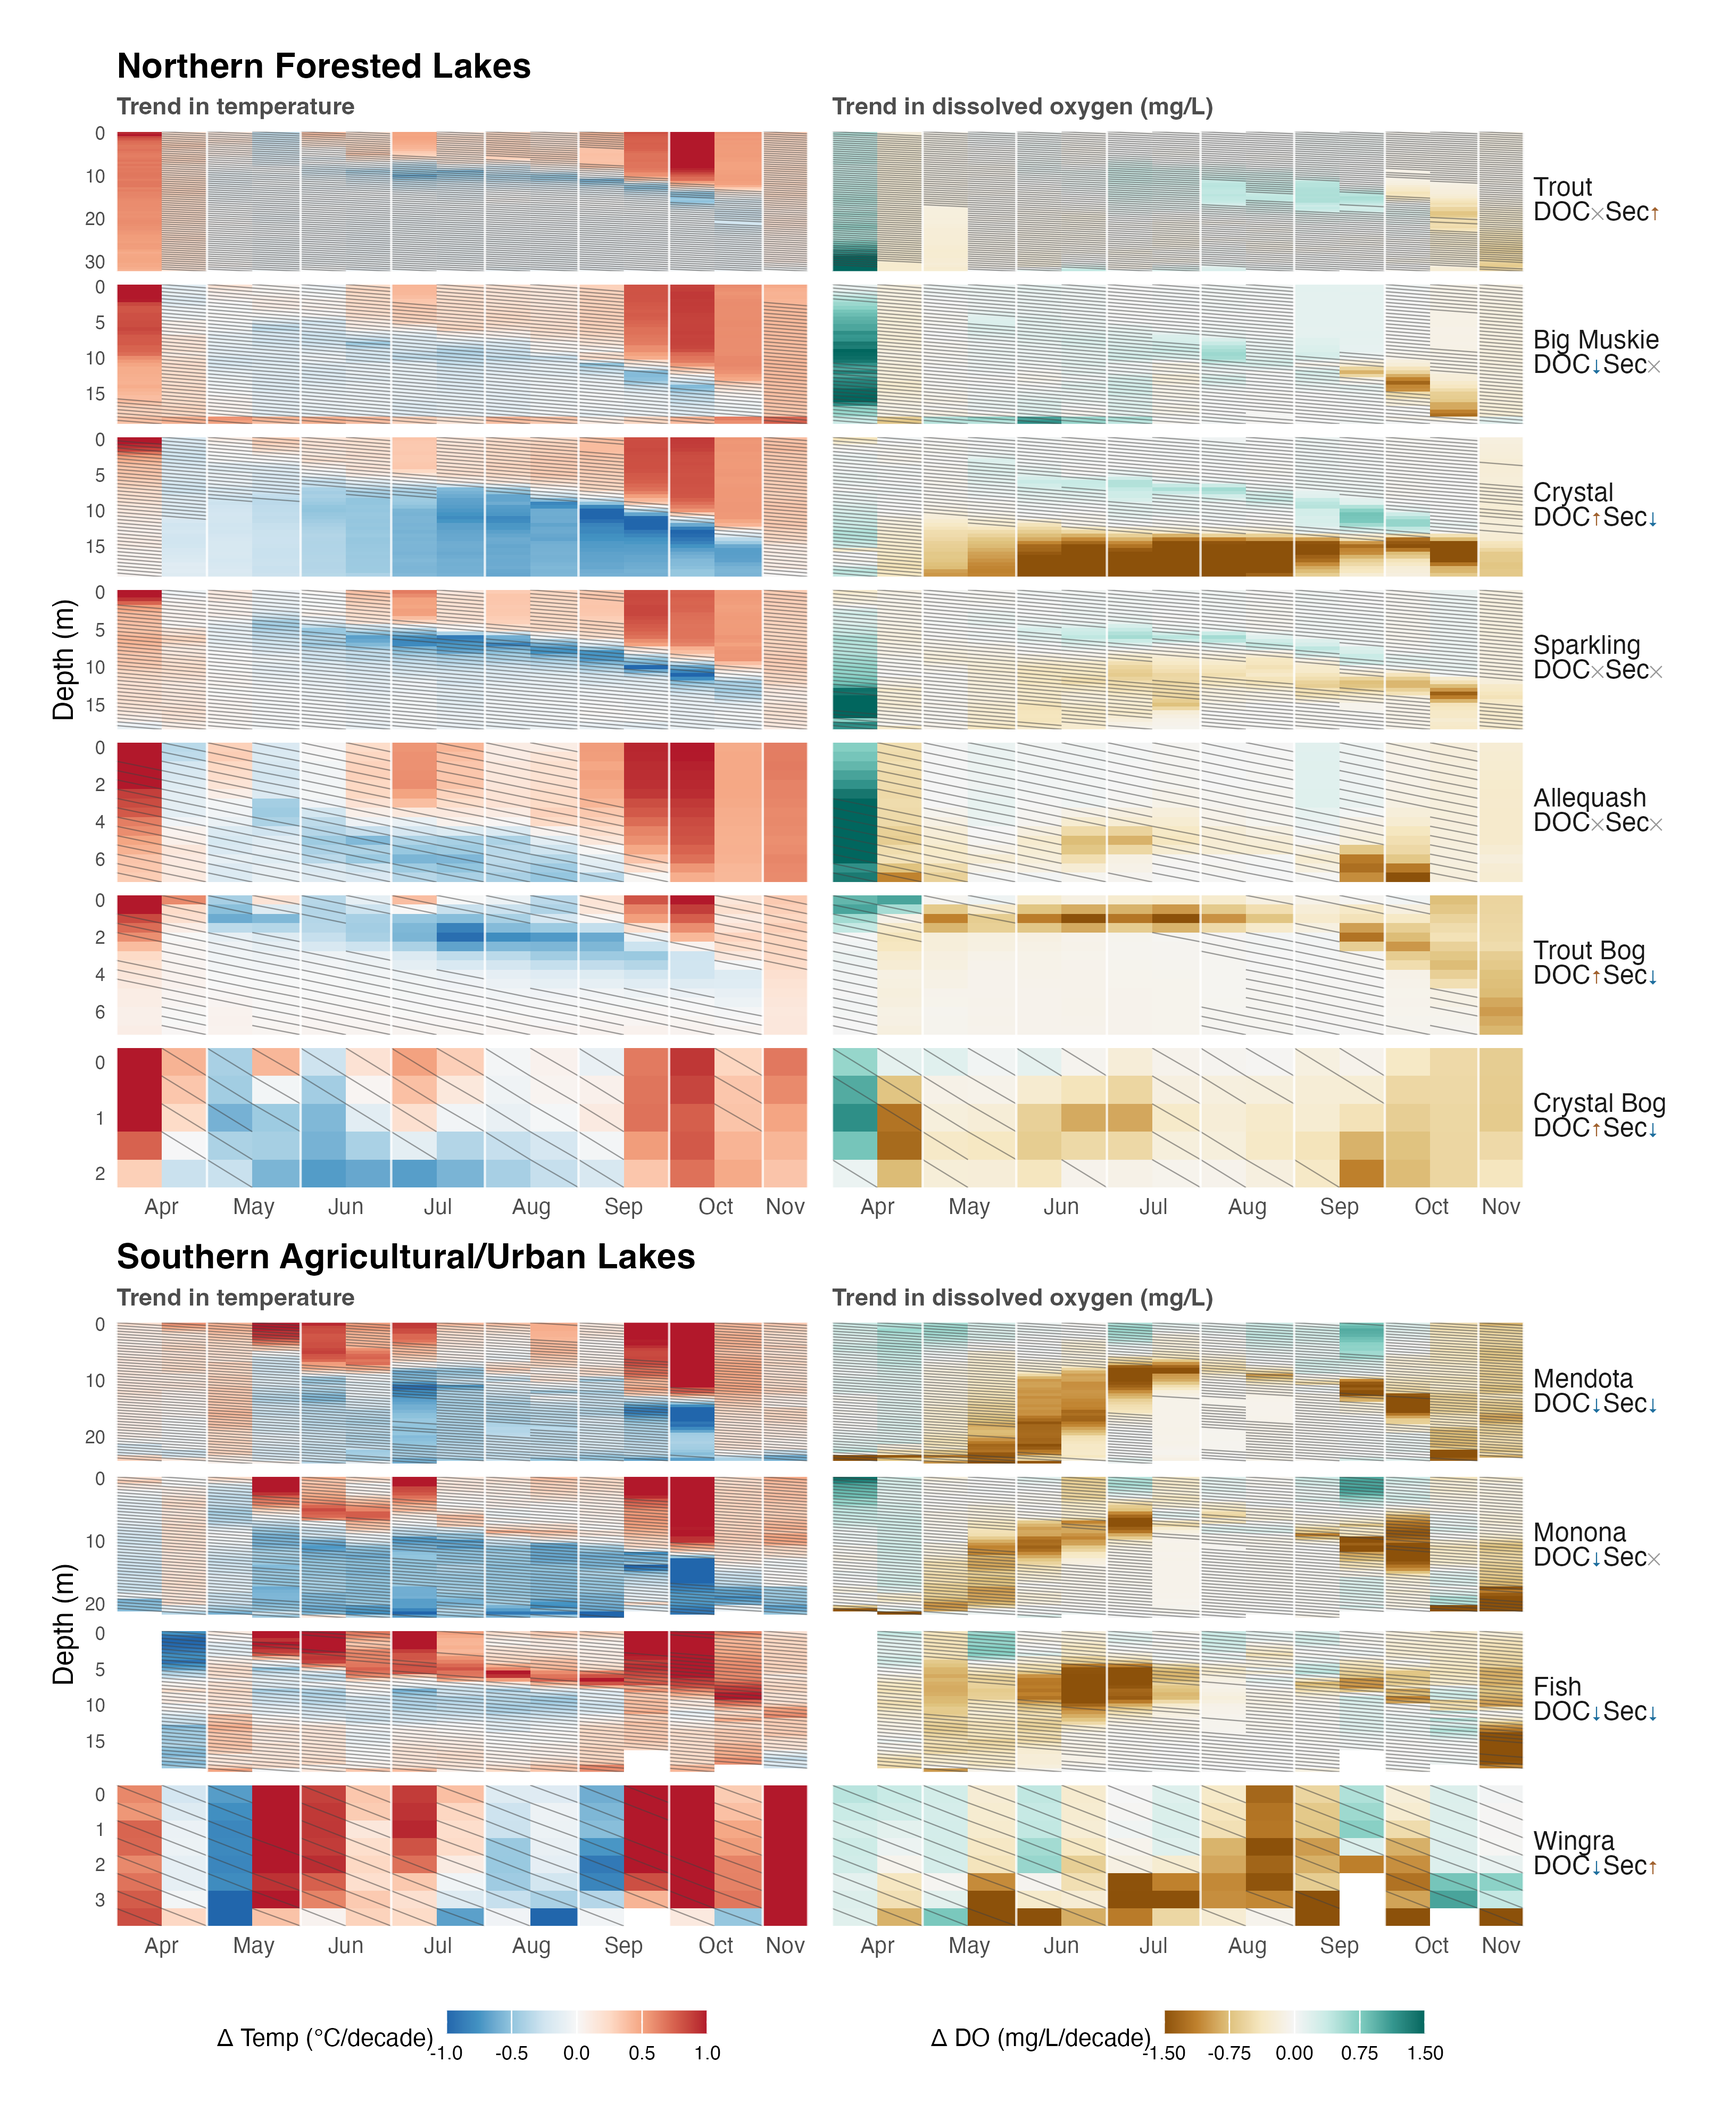
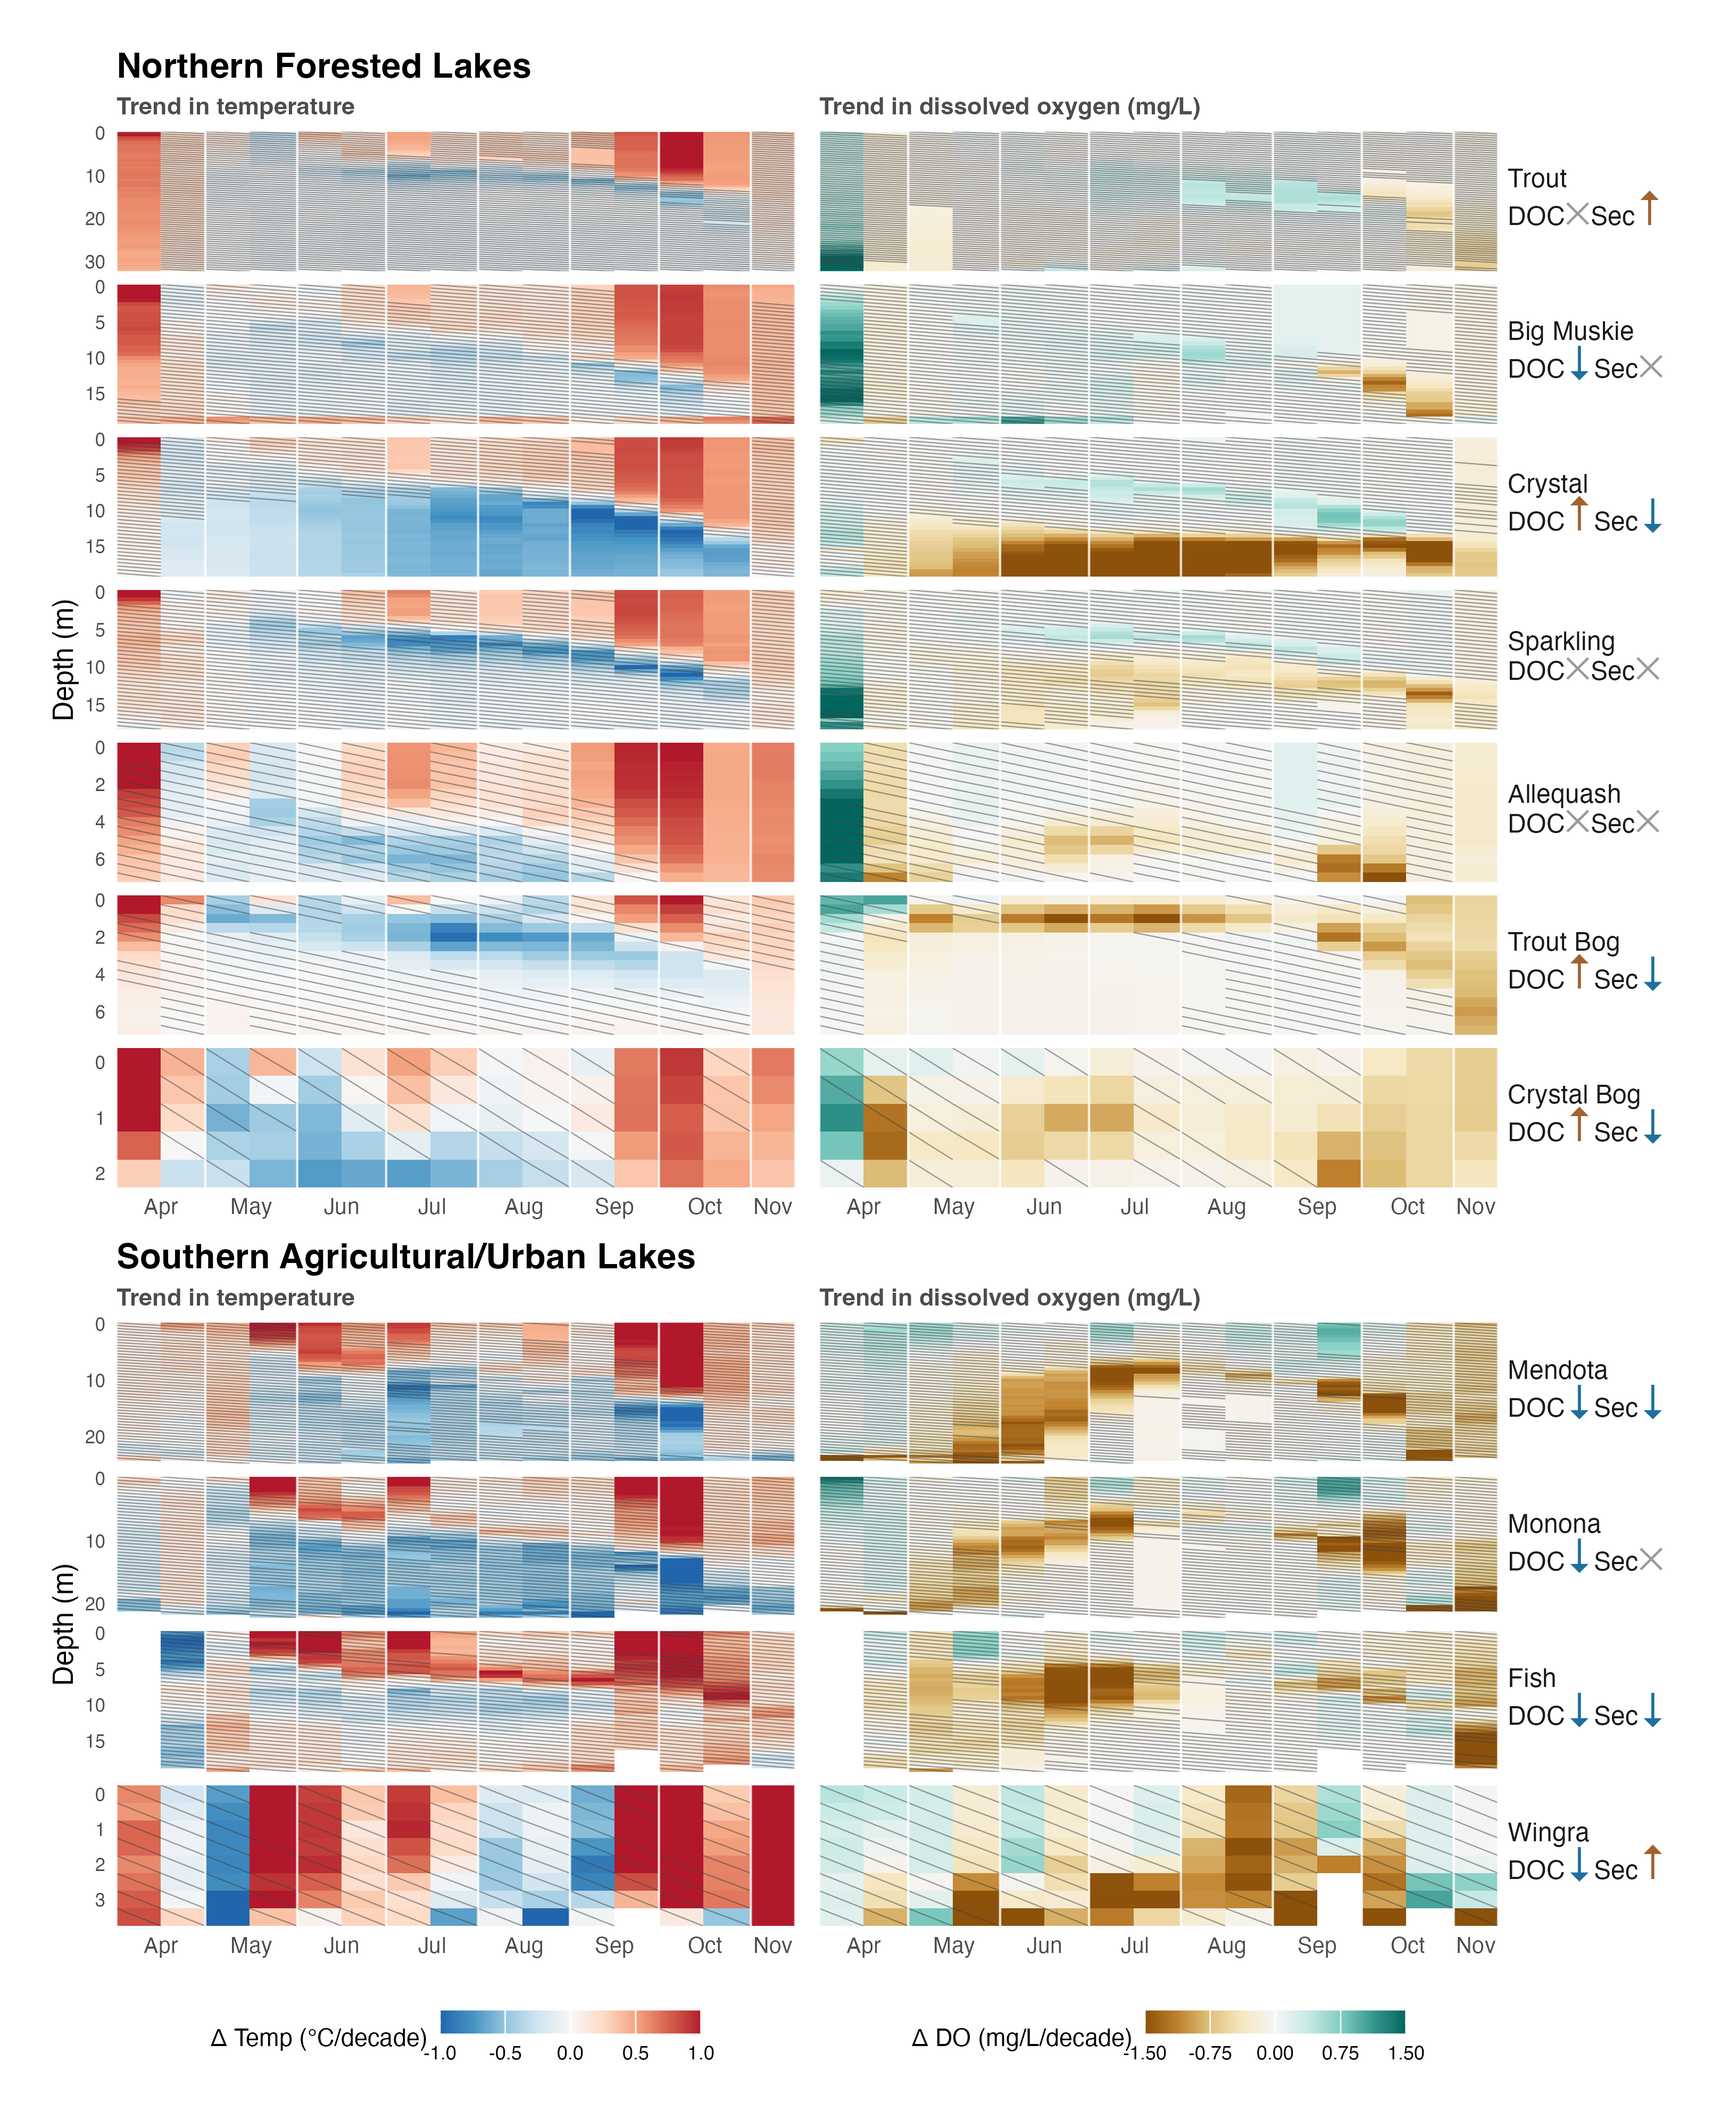
Bigger arrows in Fig1; full lake name + shorter height in Fig2
Figure1_rate_of_change.R: DOC/Secchi arrow glyphs bumped to 12pt (X to
9pt) bold, up from inheriting the 5pt strip text size -- they were easy
to miss next to the 7pt lake name/DOC/Sec labels.

Figure2_clarity_trends.R: "Big Muskie" -> "Big Muskellunge" (full name);
output height 8in -> 6in (width/dpi unchanged). Font sizes already
matched Figure1's theme exactly (base_size 6.5, axis.text 5/6,
axis.title.y 7.5, legend.title 6.5, plot.title 9.5) -- no change needed
there.

diff --git a/README.md b/README.md
@@ -26,7 +26,7 @@ which reads `figures/fig02_trends_table.csv` for its DOC/Secchi arrows.
 | `fig15_chl_profiles_aug.R` | `fig15_chl_profiles_aug.png` — August chlorophyll profiles |
 | `figS_BM_o2sat_panel.R` | `figS_BM_o2sat_1996-05.png` (+ legend) — Big Muskellunge O2 saturation panel |
 
-`Figure1_rate_of_change.R` and `Figure2_clarity_trends.R` don't draw an overall title/explainer
-on their PNGs (6.5x8in, 500dpi) — that text is written instead to the shared `figures/captions.csv`
+`Figure1_rate_of_change.R` (6.5x8in) and `Figure2_clarity_trends.R` (6.5x6in), both 500dpi, don't
+draw an overall title/explainer on their PNGs — that text is written instead to the shared `figures/captions.csv`
 (columns: file, title, caption; each script merge-writes its own rows without clobbering the
 other's).
